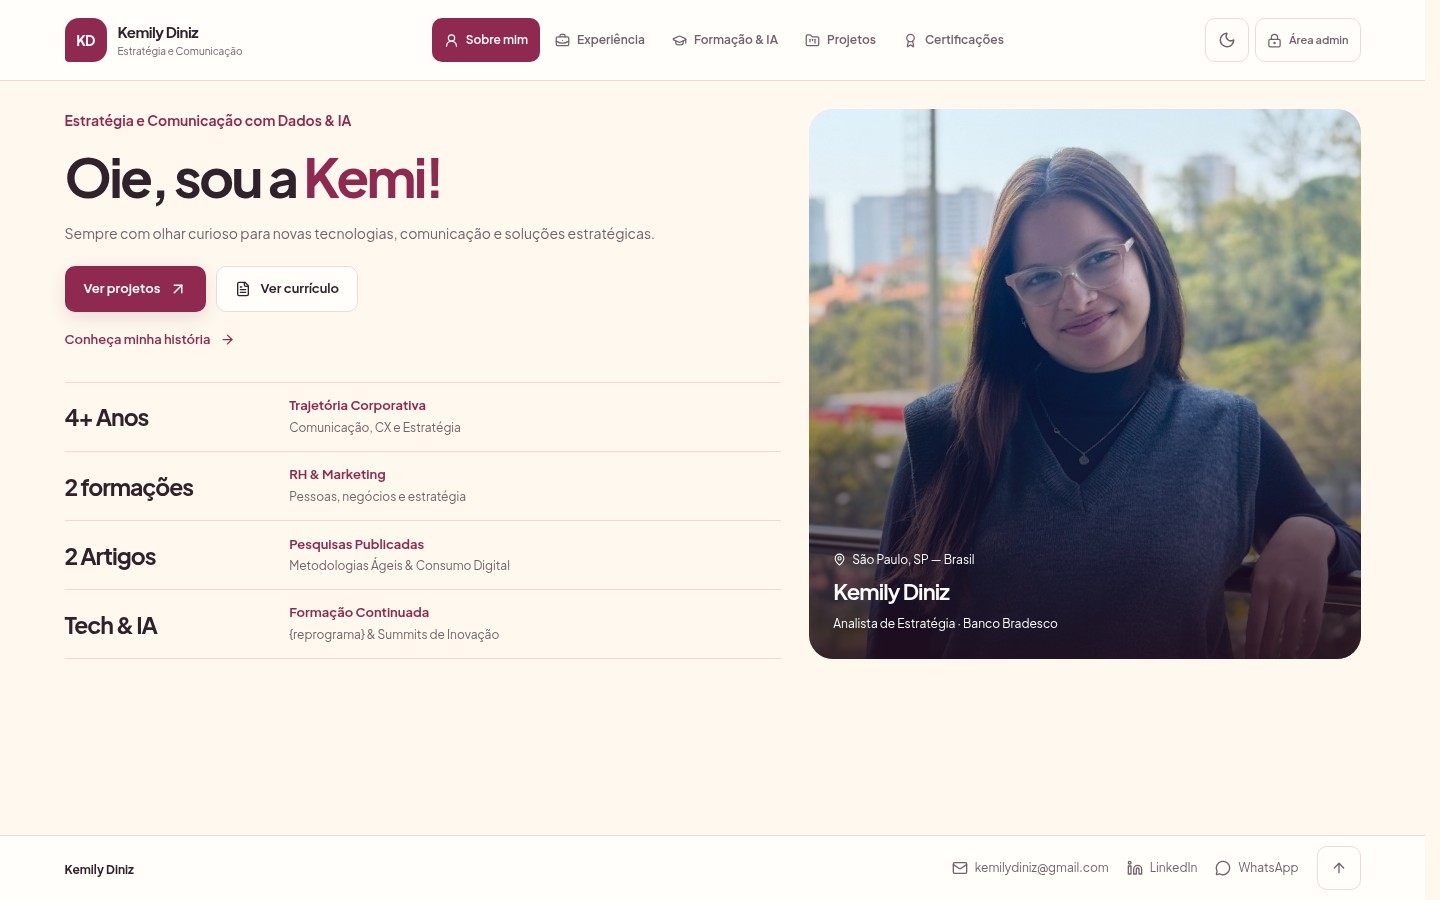
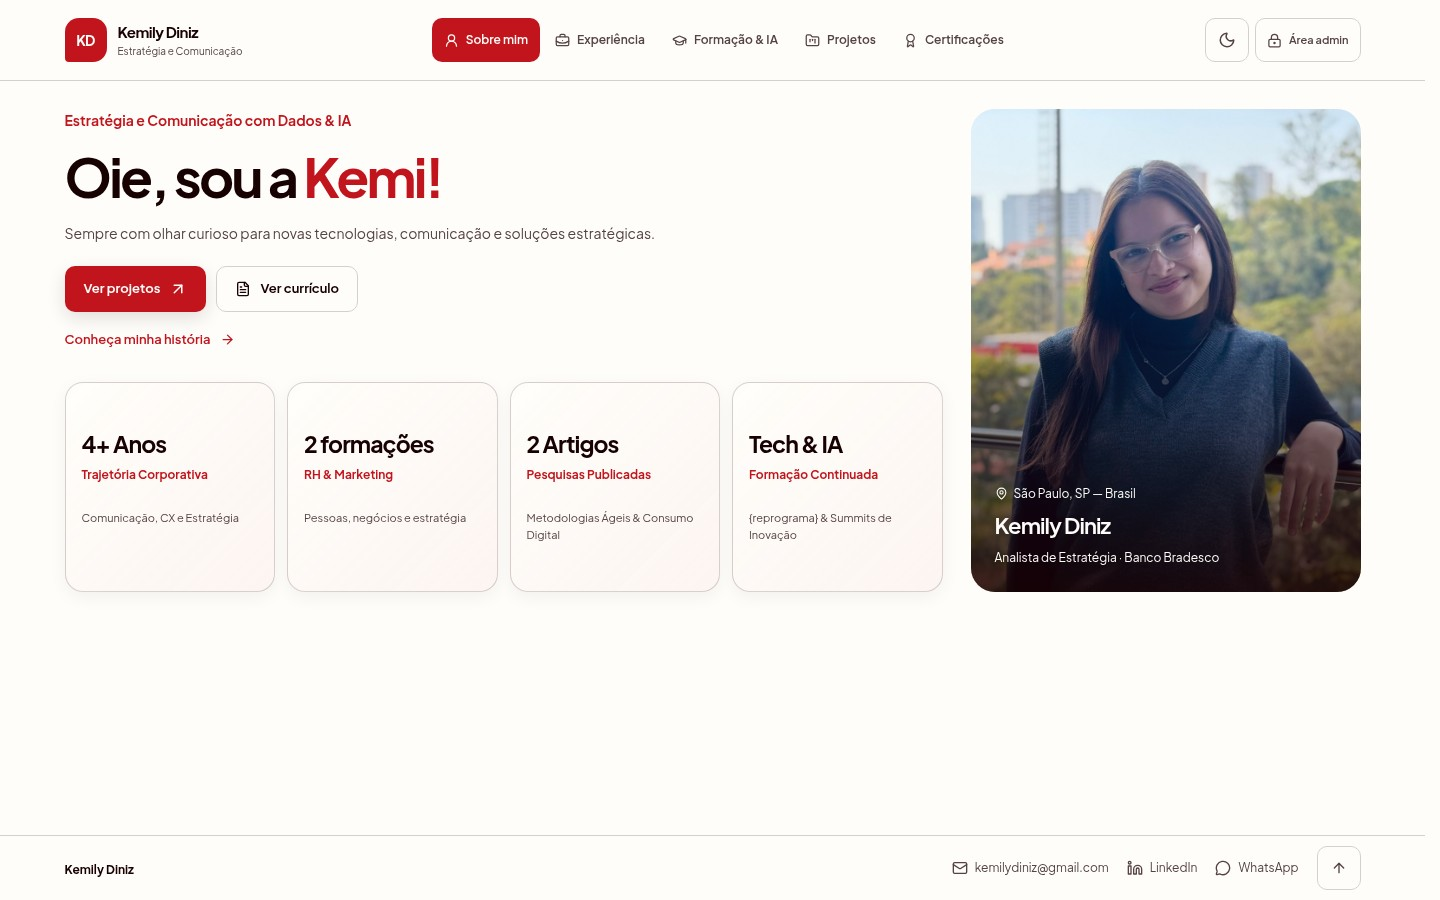
Refresh near-white theme, portfolio capture and mobile navigation dialog

diff --git a/src/components/Header.tsx b/src/components/Header.tsx
@@ -1,7 +1,10 @@
 import { useEffect, useRef, useState } from "react";
+import { createPortal } from "react-dom";
+import { AnimatePresence } from "motion/react";
 import { Award, BriefcaseBusiness, FolderKanban, GraduationCap, LockKeyhole, Menu, Moon, Sun, UserRound, X } from "lucide-react";
 import type { PortfolioData } from "../data/portfolioData";
 import { useMediaQuery } from "../hooks/useMediaQuery";
+import { MobileNavigation } from "./MobileNavigation";
 
 export type TabType = "sobre" | "experiencia" | "formacao-ia" | "projetos" | "certificacoes";
 export const sectionNames: Record<TabType, string> = {
@@ -14,6 +17,8 @@ interface Props {
 export function Header({ activeTab, onSelectTab, isDarkMode, onToggleTheme, onOpenCms, personal, isAdmin }: Props) {
   const [menuOpen, setMenuOpen] = useState(false);
   const compact = useMediaQuery("(max-width: 1179px)");
+  const mobile = useMediaQuery("(max-width: 760px)");
+  const pendingTab = useRef<TabType | null>(null);
   const header = useRef<HTMLElement>(null);
   const menuButton = useRef<HTMLButtonElement>(null);
   useEffect(() => {
@@ -25,9 +30,9 @@ export function Header({ activeTab, onSelectTab, isDarkMode, onToggleTheme, onOp
     observer.observe(node);
     return () => { observer.disconnect(); document.documentElement.style.removeProperty("--header-height"); };
   }, []);
-  useEffect(() => { setMenuOpen(false); }, [compact]);
+  useEffect(() => { setMenuOpen(false); }, [compact, mobile]);
   useEffect(() => {
-    if (!menuOpen) return;
+    if (!menuOpen || mobile) return;
     const outside = (event: PointerEvent) => { if (!header.current?.contains(event.target as Node)) setMenuOpen(false); };
     const escape = (event: KeyboardEvent) => {
       if (event.key === "Escape") { setMenuOpen(false); menuButton.current?.focus(); }
@@ -35,8 +40,11 @@ export function Header({ activeTab, onSelectTab, isDarkMode, onToggleTheme, onOp
     document.addEventListener("pointerdown", outside);
     document.addEventListener("keydown", escape);
     return () => { document.removeEventListener("pointerdown", outside); document.removeEventListener("keydown", escape); };
-  }, [menuOpen]);
-  function select(tab: TabType) { setMenuOpen(false); onSelectTab(tab); }
+  }, [menuOpen, mobile]);
+  function select(tab: TabType) {
+    if (mobile && menuOpen) { pendingTab.current = tab; setMenuOpen(false); }
+    else { setMenuOpen(false); onSelectTab(tab); }
+  }
   const items = [
     { id: "sobre", icon: UserRound }, { id: "experiencia", icon: BriefcaseBusiness },
     { id: "formacao-ia", icon: GraduationCap }, { id: "projetos", icon: FolderKanban }, { id: "certificacoes", icon: Award },
@@ -51,7 +59,7 @@ export function Header({ activeTab, onSelectTab, isDarkMode, onToggleTheme, onOp
     </nav>
   );
   return (
-    <header className="site-header" ref={header}>
+    <><header className="site-header" ref={header}>
       <div className="site-header-inner site-container">
         <button className="site-brand" onClick={() => select("sobre")}>
           <span className="brand-monogram" aria-hidden="true">{personal.name.split(" ").filter(Boolean).map(name => name[0]).slice(0, 2).join("")}</span>
@@ -69,8 +77,14 @@ export function Header({ activeTab, onSelectTab, isDarkMode, onToggleTheme, onOp
             {menuOpen ? <X size={19} /> : <Menu size={19} />}
           </button>}
         </div>
-        {compact && navigation}
+        {compact && !mobile && navigation}
       </div>
     </header>
+    {createPortal(<AnimatePresence>{mobile && menuOpen && <MobileNavigation key="mobile-navigation" onClose={() => setMenuOpen(false)} onAfterClose={() => {
+      const tab = pendingTab.current;
+      pendingTab.current = null;
+      if (tab) onSelectTab(tab);
+    }}>{navigation}</MobileNavigation>}</AnimatePresence>, document.body)}
+    </>
   );
 }

diff --git a/tests/interaction-refinements.spec.ts b/tests/interaction-refinements.spec.ts
@@ -10,7 +10,54 @@ async function navigate(page: Page, name: string) {
   const menu = page.getByRole("button", { name: "Abrir navegação", exact: true });
   if (await menu.isVisible()) await menu.click();
   await page.getByRole("navigation", { name: "Navegação principal" }).getByRole("button", { name, exact: true }).click();
+  await expect(page.locator(".mobile-menu-dialog")).toHaveCount(0);
 }
+
+test("phone popup fills available width, traps focus and restores it on dismiss", async ({ page }) => {
+  for (const width of [320, 375, 390, 430]) {
+    await page.setViewportSize({ width, height: 844 }); await open(page);
+    const trigger = page.getByRole("button", { name: "Abrir navegação", exact: true });
+    await trigger.click();
+    const dialog = page.getByRole("dialog", { name: "Navegação", exact: true });
+    await expect(dialog).toBeVisible();
+    const close = dialog.getByRole("button", { name: "Fechar navegação", exact: true });
+    await expect(close).toBeFocused();
+    expect(await page.evaluate(() => document.body.style.overflow)).toBe("hidden");
+    await expect(page.locator("#root")).toHaveAttribute("inert", "");
+    await expect.poll(async () => (await dialog.boundingBox())!.width).toBeGreaterThan(width - 44);
+    const box = (await dialog.boundingBox())!;
+    expect(box.x).toBeGreaterThanOrEqual(12); expect(box.x + box.width).toBeLessThanOrEqual(width - 12);
+    expect((await dialog.getByRole("button", { name: "Sobre mim", exact: true }).boundingBox())!.width).toBeGreaterThan(box.width - 40);
+    await page.keyboard.press("Shift+Tab");
+    await expect(dialog.getByRole("button", { name: "Certificações", exact: true })).toBeFocused();
+    await page.keyboard.press("Tab"); await expect(close).toBeFocused();
+    await page.keyboard.press("Escape"); await expect(dialog).toHaveCount(0); await expect(trigger).toBeFocused();
+    expect(await page.evaluate(() => document.body.style.overflow)).toBe("");
+    await trigger.click(); await page.locator(".mobile-menu-backdrop").click({ position: { x: 2, y: 2 } });
+    await expect(dialog).toHaveCount(0); await expect(trigger).toBeFocused();
+    await navigate(page, "Projetos");
+    await expect(page.locator("main")).toHaveAttribute("aria-label", "Projetos");
+    await expect(page.locator("main")).toBeFocused();
+    expect(await page.evaluate(() => document.documentElement.scrollWidth <= innerWidth)).toBe(true);
+  }
+});
+
+test("tablet keeps the dropdown and near-white palette reaches all page surfaces", async ({ page }) => {
+  await page.setViewportSize({ width: 768, height: 844 }); await open(page);
+  await expect(page.locator(".portfolio-site")).toHaveCSS("background-color", "rgb(255, 253, 250)");
+  await page.getByRole("button", { name: "Abrir navegação", exact: true }).click();
+  await expect(page.getByRole("navigation", { name: "Navegação principal" })).toBeVisible();
+  await expect(page.getByRole("dialog", { name: "Navegação", exact: true })).toHaveCount(0);
+  await expect(page.locator("#root")).not.toHaveAttribute("inert", "");
+  await page.keyboard.press("Escape");
+  await page.setViewportSize({ width: 390, height: 844 });
+  await page.getByRole("button", { name: "Ativar modo escuro", exact: true }).click();
+  await page.emulateMedia({ reducedMotion: "reduce" });
+  await page.getByRole("button", { name: "Abrir navegação", exact: true }).click();
+  await expect(page.getByRole("dialog", { name: "Navegação", exact: true })).toBeVisible();
+  await page.getByRole("dialog", { name: "Navegação", exact: true }).getByRole("button", { name: "Fechar navegação", exact: true }).click();
+  await expect(page.getByRole("dialog")).toHaveCount(0);
+});
 
 test("every page enters smoothly and project labels stay off the visual layout", async ({ page }) => {
   await open(page);

diff --git a/src/styles/interactions.css b/src/styles/interactions.css
@@ -7,7 +7,7 @@
   gap: 7px; aspect-ratio: 1; min-width: 0; padding: 16px;
   border: 1px solid color-mix(in srgb, var(--ink) 17%, transparent);
   border-radius: 18px; background: color-mix(in srgb, var(--paper-light) 72%, transparent);
-  background-image: linear-gradient(135deg, rgb(247 250 219 / 14%), rgb(194 20 29 / 4%));
+  background-image: linear-gradient(135deg, rgb(255 253 250 / 14%), rgb(194 20 29 / 4%));
   backdrop-filter: blur(12px); -webkit-backdrop-filter: blur(12px);
   box-shadow: 0 5px 18px rgb(24 1 1 / 5%);
   transition: transform 180ms ease, border-color 180ms ease, box-shadow 180ms ease;
@@ -85,3 +85,13 @@
   .experience-card { opacity: 1 !important; transform: none !important; }
   .profile-metrics .metric-card:hover { transform: none; }
 }
+
+/* Only phones use the centered modal; tablet and desktop navigation stay unchanged. */
+.mobile-menu-backdrop { position: fixed; inset: 0; z-index: 80; display: grid; place-items: center; padding: 12px; background: rgb(24 1 1 / 58%); backdrop-filter: blur(8px); }
+.mobile-menu-dialog { width: 100%; max-height: calc(100dvh - 48px); overflow-y: auto; overscroll-behavior: contain; padding: 16px; border: 1px solid var(--rule); border-radius: 20px; color: var(--ink); background: var(--paper-light); box-shadow: 0 20px 64px rgb(24 1 1 / 24%); }
+.mobile-menu-heading { display: flex; align-items: center; justify-content: space-between; gap: 16px; margin-bottom: 12px; }
+.mobile-menu-heading h2 { font-size: 16px; font-weight: 700; }
+.mobile-menu-heading > button { display: grid; place-items: center; min-width: 44px; min-height: 44px; color: var(--wine); border: 1px solid var(--rule); border-radius: 10px; }
+.mobile-menu-heading > button:hover { background: var(--accent-soft); border-color: var(--wine); }
+.mobile-menu-dialog .site-navigation { position: static; display: grid; grid-template-columns: minmax(0, 1fr); justify-content: stretch; align-items: stretch; width: 100%; max-height: none; overflow: visible; padding: 0; gap: 6px; border: 0; border-radius: 0; background: transparent; box-shadow: none; }
+.mobile-menu-dialog .site-navigation button { width: 100%; justify-content: flex-start; min-height: 50px; padding: 12px 14px; }

diff --git a/src/components/MobileNavigation.tsx b/src/components/MobileNavigation.tsx
@@ -1,0 +1,23 @@
+import { useEffect, useRef, type ReactNode } from "react";
+import { motion } from "motion/react";
+import { X } from "lucide-react";
+import { useDialogFocus } from "../hooks/useDialogFocus";
+import { useMediaQuery } from "../hooks/useMediaQuery";
+
+export function MobileNavigation({ children, onClose, onAfterClose }: { children: ReactNode; onClose: () => void; onAfterClose: () => void }) {
+  const dialog = useRef<HTMLDivElement>(null);
+  const reduced = useMediaQuery("(prefers-reduced-motion: reduce)");
+  useDialogFocus(dialog, true, onClose);
+  const afterClose = useRef(onAfterClose);
+  afterClose.current = onAfterClose;
+  // Navigate only after the dialog hook has restored focus and removed background inertness.
+  useEffect(() => () => afterClose.current(), []);
+  return (
+    <motion.div data-modal-layer className="mobile-menu-backdrop" initial={{ opacity: reduced ? 1 : 0 }} animate={{ opacity: 1 }} exit={{ opacity: 0 }} transition={{ duration: reduced ? 0 : 0.18 }} onClick={event => { if (event.target === event.currentTarget) onClose(); }}>
+      <motion.div ref={dialog} role="dialog" aria-modal="true" aria-labelledby="mobile-menu-title" tabIndex={-1} className="mobile-menu-dialog" initial={{ y: reduced ? 0 : 12, scale: reduced ? 1 : 0.98 }} animate={{ y: 0, scale: 1 }} exit={{ y: reduced ? 0 : 8, scale: reduced ? 1 : 0.98 }} transition={{ duration: reduced ? 0 : 0.22 }}>
+        <div className="mobile-menu-heading"><h2 id="mobile-menu-title">Navegação</h2><button type="button" aria-label="Fechar navegação" onClick={onClose}><X size={20} aria-hidden="true" /></button></div>
+        {children}
+      </motion.div>
+    </motion.div>
+  );
+}

diff --git a/tests/ux-preview.spec.ts b/tests/ux-preview.spec.ts
@@ -36,7 +36,12 @@ for (const width of [320, 375, 390, 430, 768, 1024, 1440]) {
     for (const name of ["Sobre mim", "Experiência", "Formação & IA", "Projetos", "Certificações"]) {
       await navigate(page, name);
       expect(await page.evaluate(() => document.documentElement.scrollWidth <= innerWidth)).toBe(true);
-      await expect(page.locator("#site-navigation [aria-current=page]")).toHaveText(name);
+      if (width <= 760) {
+        await page.getByRole("button", { name: "Abrir navegação", exact: true }).click();
+        await expect(page.locator("#site-navigation [aria-current=page]")).toHaveText(name);
+        await page.keyboard.press("Escape");
+        await expect(page.getByRole("dialog")).toHaveCount(0);
+      } else await expect(page.locator("#site-navigation [aria-current=page]")).toHaveText(name);
     }
   });
 }

diff --git a/src/components/Projects.tsx b/src/components/Projects.tsx
@@ -65,7 +65,7 @@ function ProjectCarousel({ projects, onSelectProject, modalOpen, paused, onToggl
     const node = viewport.current!;
     let frame = 0, previous = 0, position = node.scrollLeft;
     const tick = (now: number) => {
-      if (previous) position += Math.min(now - previous, 64) * 0.018;
+      if (previous) position += Math.min(now - previous, 64) * 0.024;
       previous = now;
       if (cycle.current && position >= cycle.current * 2) position -= cycle.current;
       node.scrollLeft = position;

diff --git a/tests/portfolio.spec.ts b/tests/portfolio.spec.ts
@@ -69,6 +69,7 @@ async function navigate(page: Page, label: string) {
     .getByRole("navigation", { name: "Navegação principal" })
     .getByRole("button", { name: label, exact: true })
     .click();
+  await expect(page.locator(".mobile-menu-dialog")).toHaveCount(0);
 }
 async function login(page: Page) {
   await page.getByRole("button", { name: "Área admin", exact: true }).click();

diff --git a/src/index.css b/src/index.css
@@ -10,7 +10,7 @@
     color-scheme: light;
     --palette-dark: #180101;
     --palette-accent: #c2141d;
-    --palette-light: #f7fadb;
+    --palette-light: #fffdfa;
     --paper: var(--palette-light);
     --paper-light: var(--palette-light);
     --surface-hover: color-mix(in srgb, var(--palette-accent) 7%, var(--palette-light));

diff --git a/docs/ux-preview-validation.md b/docs/ux-preview-validation.md
@@ -4,11 +4,11 @@ Entrega no PR #8, com publicação em produção solicitada e autorizada pela Ke
 
 ## Escopo final
 
-- Paleta global `#180101`, `#c2141d` e `#f7fadb`, incluindo modo noturno, cabeçalho, rodapé, currículo e admin, conforme a confirmação da Kemily. Tons auxiliares usam misturas/transparências dessas cores.
+- Paleta global `#180101`, `#c2141d` e `#fffdfa`, incluindo modo noturno, cabeçalho, rodapé, currículo e admin, conforme a confirmação da Kemily. Tons auxiliares usam misturas/transparências dessas cores.
 - Quatro indicadores da apresentação em cards de vidro: uma linha no desktop, grade 2 × 2 em tablet/mobile. Mesmos textos e números; mesma fotografia, ligeiramente menor no desktop.
 - Cards de experiência com entrada por interseção, opacidade e deslocamento de 20 px em 600 ms, com sequência de até 120 ms entre entradas iniciais. Ícone de carreira ao lado do título.
 - Projetos no carrossel horizontal, sem destaque para o portfólio. Filtros, conteúdos, imagens, links e modal de detalhes preservados.
-- Movimento de aproximadamente 18 px/s, loop com conjuntos visuais equivalentes. Cópias ficam fora da árvore acessível e da sequência Tab. Modal, foco, hover, toque, aba oculta e carrossel fora da tela suspendem o movimento. Há pausa explícita, preservada ao filtrar.
+- Movimento de aproximadamente 24 px/s, loop com conjuntos visuais equivalentes. Cópias ficam fora da árvore acessível e da sequência Tab. Modal, foco, hover, toque, aba oculta e carrossel fora da tela suspendem o movimento. Há pausa explícita, preservada ao filtrar.
 - Navegação manual por setas, teclado e gesto nativo de deslizar. Com movimento reduzido, não há autoplay. Quando todos os projetos do filtro cabem na tela, o movimento e as setas ficam desativados.
 - História no modal, reutilizando todo o conteúdo original. Sobreposição, rolagem interna, Escape, clique fora, fechamento visível, contenção/restauração de foco e posição da página preservada.
 - Reprograma passa a usar o mesmo padrão `surface-card` dos cards equivalentes.
@@ -18,12 +18,12 @@ Entrega no PR #8, com publicação em produção solicitada e autorizada pela Ke
 
 - `npm run lint`: aprovado (TypeScript).
 - `npm run build`: aprovado.
-- 62 cenários Playwright aprovados, incluindo os testes de regressão atualizados para a história em modal, cards em linha e remoção do destaque.
+- 64 cenários Playwright aprovados, incluindo os testes de regressão atualizados para a história em modal, cards em linha e remoção do destaque.
 - Larguras: 320, 375, 390, 430, 768, 1024 e 1440 px. Sem overflow horizontal da página; sem corte dos indicadores ou conteúdo dos modais.
 - Teclado, toque sintetizado pelo Chromium, loop, hover, pausa explícita, pausa entre filtros, retorno de foco, rolagem e preferência por movimento reduzido verificados.
 - Regressões de login, edição/publicação simulada, conflitos e enquadramento de fotos verificadas.
 - Sem erros JavaScript nos cenários de responsividade das novas interações.
-- Axe-core 4.14, regras WCAG A/AA até 2.2: nenhuma violação detectada em 39 estados. Inclui cinco seções em três larguras e ambos os temas, os modais de história, currículo e projeto em claro/escuro, etapa Dados e entrada do admin em ambos os temas.
+- Axe-core 4.14, regras WCAG A/AA até 2.2: nenhuma violação detectada em 41 estados. Inclui cinco seções em três larguras e ambos os temas, os modais de história, currículo e projeto em claro/escuro, etapa Dados e entrada do admin em ambos os temas.
 - Inspeção visual da apresentação e do carrossel no desktop, apresentação mobile e história em ambos os temas.
 
 ## Limites
@@ -32,7 +32,7 @@ Entrega no PR #8, com publicação em produção solicitada e autorizada pela Ke
 - Automação não certifica conformidade WCAG. Safari, iPhone físico e leitura com VoiceOver/NVDA não foram executados neste ambiente.
 - O reflow equivalente a zoom de 200% foi verificado; não substitui conferir o zoom nativo nos dispositivos reais.
 - Permanecem os avisos do Vite sobre configuração futura com `__dirname` e bundle principal maior que 500 kB. A biblioteca de animação existente aumenta o JavaScript da entrada; não houve instalação de novas bibliotecas.
-- Imagens existentes foram preservadas. A captura estática do projeto do portfólio continua representando a versão anterior; não é uma prévia sincronizada do layout atual.
+- A captura do projeto do portfólio foi refeita com o layout atual e os dados públicos publicados. Continua sendo uma imagem estática, que exige nova captura após mudanças visuais futuras.
 
 ## Arquivos desta etapa
 
@@ -50,3 +50,13 @@ Entrega no PR #8, com publicação em produção solicitada e autorizada pela Ke
 - Controles de pausa e navegação deslocados para baixo do carrossel.
 - Todas as cinco páginas usam a entrada de 460 ms, com opacidade e deslocamento de 14 px, respeitando movimento reduzido.
 - Teste de hover aguarda o término da entrada da página para validar o destaque isoladamente.
+
+## Refinamento de fundo e navegação mobile
+
+- Fundo claro atualizado para branco levemente quente `#fffdfa`, mantendo contraste e tipografia.
+- Captura de `public/assets/projects/portfolio-kemi.jpg` atualizada a partir da página renderizada com o conteúdo público real.
+- Carrossel ajustado de 18 para 24 px/s, mantendo todas as pausas e a preferência de movimento reduzido.
+- Menu em pop-up apenas até 760 px: margens externas de 12 px, opções ocupando a largura disponível, abertura/fechamento suaves, fundo inerte, Escape, clique fora, controle de foco e rolagem.
+- Tablet conserva o dropdown anterior; desktop conserva a navegação em linha.
+- Selecionar uma seção aguarda a saída do pop-up e a remoção do estado inerte antes de transferir o foco ao conteúdo.
+- Arquivos adicionais: `src/components/MobileNavigation.tsx` e `src/components/Header.tsx`.
